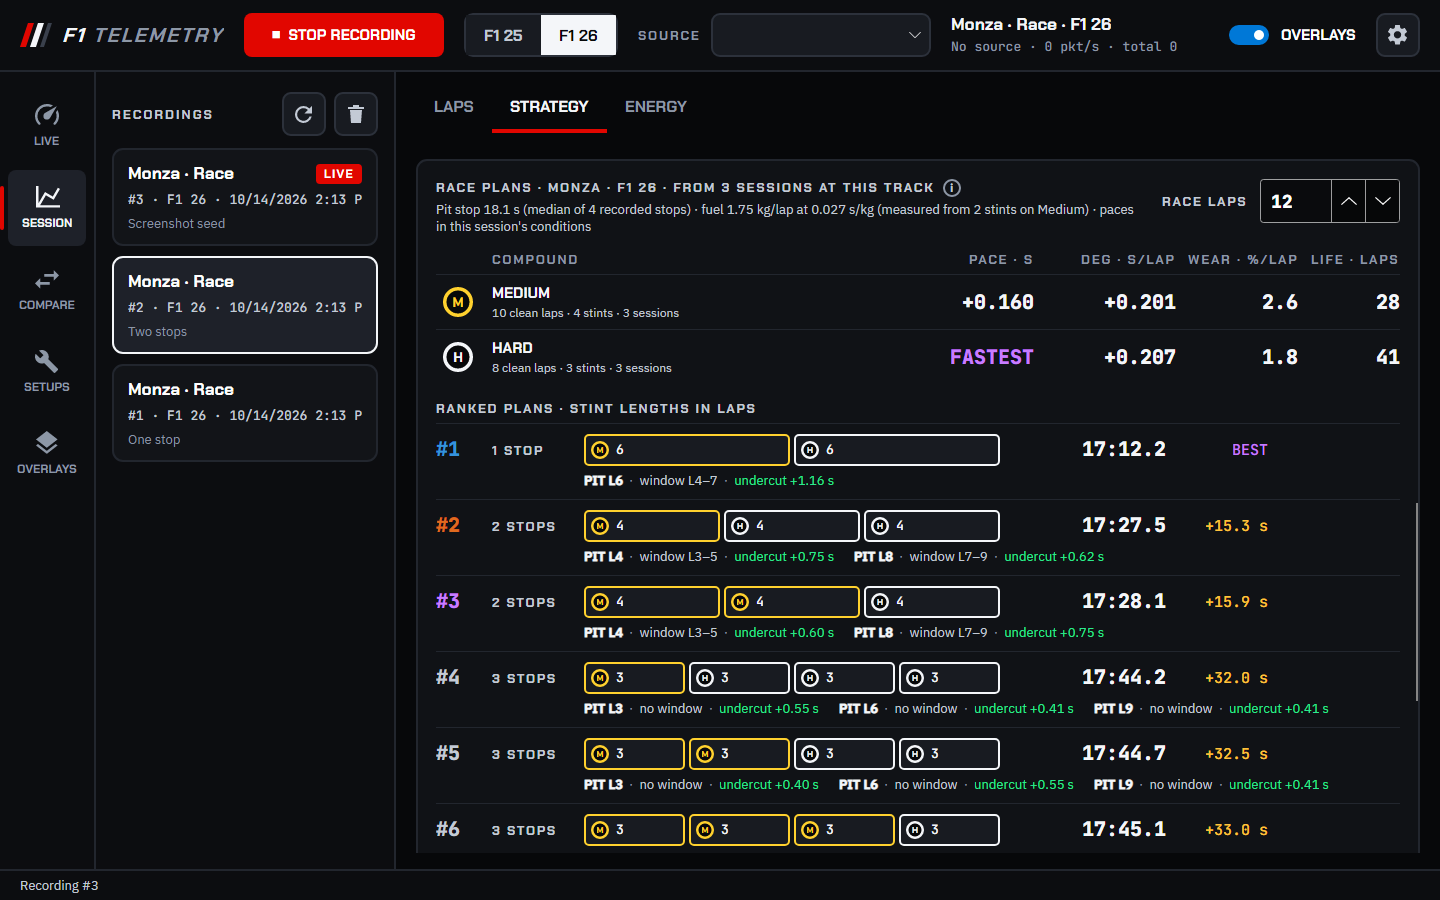
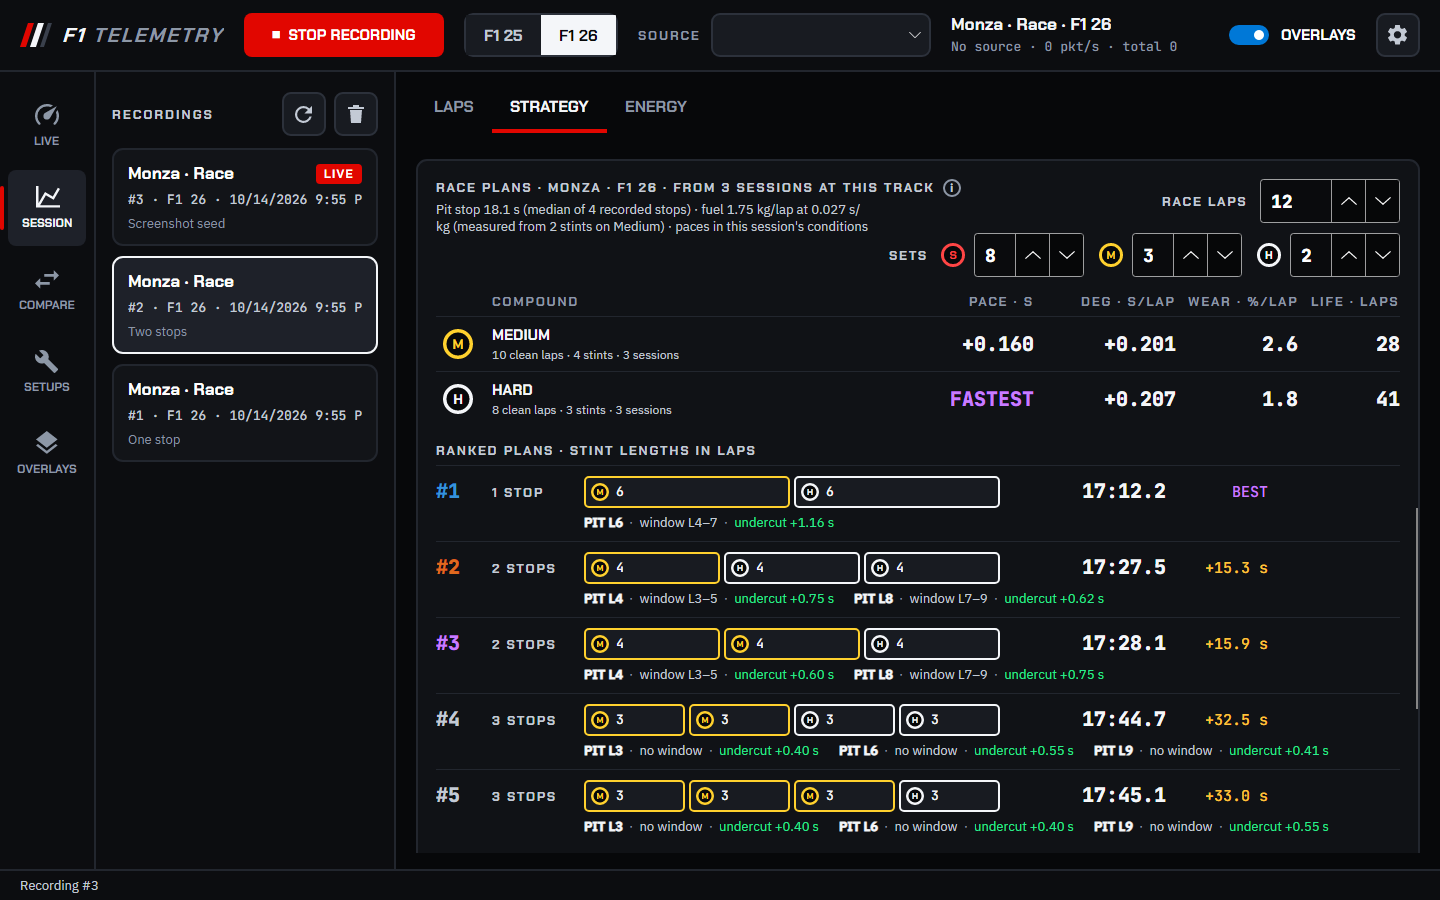
Race plans respect the tyre sets available; version 0.5.1
A plan never runs a compound more often than the race has new sets of it. SETS next to the race distance defaults to the F1 weekend allocation (8 soft, 3 medium, 2 hard) and is saved in the settings.

diff --git a/src/F1Telemetry.Core/Analytics/StrategyPlanner.cs b/src/F1Telemetry.Core/Analytics/StrategyPlanner.cs
@@ -54,6 +54,14 @@ public sealed record PlannerOptions
 
     /// <summary>Compounds with fewer clean laps than this are left out of the plans.</summary>
     public int MinCompoundLaps { get; init; } = 3;
+
+    /// <summary>
+    /// Sets of each compound the race can use (a plan runs each set once); a compound not listed has no limit.
+    /// Defaults to the F1 weekend allocation: 8 soft, 3 medium, 2 hard.
+    /// </summary>
+    public IReadOnlyDictionary<string, int> MaxSets { get; init; } = DefaultSets;
+
+    public static IReadOnlyDictionary<string, int> DefaultSets { get; } = new Dictionary<string, int> { ["Soft"] = 8, ["Medium"] = 3, ["Hard"] = 2 };
 }
 
 /// <summary>
@@ -68,7 +76,7 @@ public static class StrategyPlanner
     public static StrategyPlans Plan(CompoundLibrary library, int raceLaps, PlannerOptions? options = null)
     {
         options ??= new PlannerOptions();
-        var dry = library.Compounds.Where(c => c.IsDry && c.Laps >= options.MinCompoundLaps).ToList();
+        var dry = library.Compounds.Where(c => c.IsDry && c.Laps >= options.MinCompoundLaps && SetsOf(c.Compound, options) > 0).ToList();
         if (raceLaps < 2 * options.MinStintLaps)
         {
             return new StrategyPlans(raceLaps, [], dry, $"A race needs at least {2 * options.MinStintLaps} laps for a stop.");
@@ -78,7 +86,7 @@ public static class StrategyPlanner
         {
             var have = dry.Count == 0 ? "no dry compound" : $"only the {dry[0].Compound}";
             return new StrategyPlans(raceLaps, [], dry,
-                $"A dry race must use two compounds, and the recordings here have {have} with {options.MinCompoundLaps}+ clean laps. Run another compound at this track (a practice session will do).");
+                $"A dry race must use two compounds, and there is {have} with {options.MinCompoundLaps}+ clean laps recorded here and a set available. Run another compound at this track (a practice session will do), or check the sets.");
         }
 
         // The tank burns down from what the race needs to empty: the mean load over each lap.
@@ -88,7 +96,7 @@ public static class StrategyPlanner
         {
             foreach (var set in Multisets(dry.Count, stops + 1))
             {
-                if (set.Distinct().Count() < 2)
+                if (set.Distinct().Count() < 2 || set.GroupBy(i => i).Any(g => g.Count() > SetsOf(dry[g.Key].Compound, options)))
                 {
                     continue;
                 }
@@ -103,7 +111,8 @@ public static class StrategyPlanner
 
         if (candidates.Count == 0)
         {
-            return new StrategyPlans(raceLaps, [], dry, $"No plan with up to {options.MaxStops} stops keeps every set within its tyre life over {raceLaps} laps.");
+            return new StrategyPlans(raceLaps, [], dry,
+                $"No plan with up to {options.MaxStops} stops keeps every set within its tyre life over {raceLaps} laps with the sets available ({string.Join(", ", dry.Select(c => $"{SetsOf(c.Compound, options)} {c.Compound.ToLowerInvariant()}"))}).");
         }
 
         candidates.Sort((a, b) => a.RaceSeconds.CompareTo(b.RaceSeconds));
@@ -119,6 +128,8 @@ public static class StrategyPlanner
 
         return new StrategyPlans(raceLaps, shown.Select(p => p with { GapSeconds = p.RaceSeconds - best }).ToList(), dry, "");
     }
+
+    private static int SetsOf(string compound, PlannerOptions options) => options.MaxSets.TryGetValue(compound, out var sets) ? sets : int.MaxValue;
 
     /// <summary>Cost of one stint: its laps on the compound's model, fuel aside.</summary>
     public static double StintSeconds(CompoundModel compound, int laps) =>

diff --git a/src/F1Telemetry.App/ViewModels/RacePlansViewModel.cs b/src/F1Telemetry.App/ViewModels/RacePlansViewModel.cs
@@ -68,7 +68,7 @@ public sealed record PlanRowViewModel(int Rank, RacePlan Plan, IReadOnlyList<Pla
 /// The strategy optimiser on the strategy tab: the compound library of the session's track (every recording there in
 /// the same game format) and the 1-, 2- and 3-stop plans it gives for a race distance.
 /// </summary>
-public sealed partial class RacePlansViewModel(TelemetryRuntime runtime) : ObservableObject
+public sealed partial class RacePlansViewModel(TelemetryRuntime runtime, SettingsService settings) : ObservableObject
 {
     /// <summary>A live session's library is rebuilt at most this often (each build reads every recording at the track).</summary>
     private static readonly TimeSpan LiveRebuild = TimeSpan.FromMinutes(1);
@@ -94,6 +94,27 @@ public sealed partial class RacePlansViewModel(TelemetryRuntime runtime) : Obser
     public ObservableCollection<PlanRowViewModel> Plans { get; } = [];
 
     partial void OnRaceLapsChanged(int value) => Replan();
+
+    /// <summary>New sets of each dry compound the plans can use (a plan runs each set once); saved in the settings.</summary>
+    [ObservableProperty] public partial int SoftSets { get; set; } = settings.Current.RaceSoftSets;
+
+    [ObservableProperty] public partial int MediumSets { get; set; } = settings.Current.RaceMediumSets;
+    [ObservableProperty] public partial int HardSets { get; set; } = settings.Current.RaceHardSets;
+
+    partial void OnSoftSetsChanged(int value) => SaveSets();
+
+    partial void OnMediumSetsChanged(int value) => SaveSets();
+
+    partial void OnHardSetsChanged(int value) => SaveSets();
+
+    private void SaveSets()
+    {
+        settings.Current.RaceSoftSets = SoftSets;
+        settings.Current.RaceMediumSets = MediumSets;
+        settings.Current.RaceHardSets = HardSets;
+        settings.Save();
+        Replan();
+    }
 
     public void Clear()
     {
@@ -168,7 +189,10 @@ public sealed partial class RacePlansViewModel(TelemetryRuntime runtime) : Obser
             return;
         }
 
-        var result = StrategyPlanner.Plan(library, RaceLaps);
+        var result = StrategyPlanner.Plan(library, RaceLaps, new PlannerOptions
+        {
+            MaxSets = new Dictionary<string, int> { ["Soft"] = SoftSets, ["Medium"] = MediumSets, ["Hard"] = HardSets },
+        });
         Problem = library.Compounds.Count == 0 ? "No clean laps recorded at this track yet." : result.Problem;
         Plans.Clear();
         for (var i = 0; i < result.Plans.Count; i++)

diff --git a/tests/F1Telemetry.Tests/StrategyPlannerTests.cs b/tests/F1Telemetry.Tests/StrategyPlannerTests.cs
@@ -130,6 +130,27 @@ public sealed class StrategyPlannerTests
     }
 
     [Fact]
+    public void Plans_never_use_more_sets_of_a_compound_than_the_race_has()
+    {
+        // Hard is so much better that, unlimited, the best plans would run it three or four times.
+        var library = Library(22, Model("Medium", 80.6, 0.20), Model("Hard", 80.0, 0.02, life: 15));
+        Assert.Contains(StrategyPlanner.Plan(library, 50, new PlannerOptions { MaxSets = new Dictionary<string, int>() }).Plans,
+            p => p.Stints.Count(s => s.Compound == "Hard") > 2);
+
+        var plans = StrategyPlanner.Plan(library, 50); // the default allocation: 2 hard, 3 medium
+        Assert.NotEmpty(plans.Plans);
+        Assert.All(plans.Plans, p =>
+        {
+            Assert.InRange(p.Stints.Count(s => s.Compound == "Hard"), 0, 2);
+            Assert.InRange(p.Stints.Count(s => s.Compound == "Medium"), 0, 3);
+        });
+
+        var noHards = StrategyPlanner.Plan(library, 50, new PlannerOptions { MaxSets = new Dictionary<string, int> { ["Hard"] = 0, ["Medium"] = 3 } });
+        Assert.Empty(noHards.Plans);
+        Assert.Contains("set available", noHards.Problem);
+    }
+
+    [Fact]
     public void Tyre_life_rules_out_plans_that_overrun_a_set()
     {
         // Each set lasts 15 laps: 40 laps need at least two stops.

diff --git a/src/F1Telemetry.App/ViewModels/SessionViewModel.cs b/src/F1Telemetry.App/ViewModels/SessionViewModel.cs
@@ -91,7 +91,7 @@ public sealed record StintViewModel(StintAnalysis Stint, IReadOnlyList<LapBar> B
 }
 
 /// <summary>Laps list, race-strategy post-mortem and position history for one recording (live or stored).</summary>
-public sealed partial class SessionViewModel(TelemetryRuntime runtime) : ObservableObject
+public sealed partial class SessionViewModel(TelemetryRuntime runtime, SettingsService settings) : ObservableObject
 {
     private CancellationTokenSource? _loadCts;
 
@@ -108,7 +108,7 @@ public sealed partial class SessionViewModel(TelemetryRuntime runtime) : Observa
     public ObservableCollection<PitStopRowViewModel> PitStops { get; } = [];
 
     /// <summary>The strategy optimiser: compound library of the track and race plans.</summary>
-    public RacePlansViewModel Plans { get; } = new(runtime);
+    public RacePlansViewModel Plans { get; } = new(runtime, settings);
 
     [ObservableProperty] public partial bool HasPitStops { get; set; }
 

diff --git a/src/F1Telemetry.App/Services/SettingsService.cs b/src/F1Telemetry.App/Services/SettingsService.cs
@@ -107,6 +107,12 @@ public sealed class AppSettings
 
     /// <summary>Installed builds look for a new release on GitHub at startup and download it in the background.</summary>
     public bool CheckForUpdates { get; set; } = true;
+
+    /// <summary>New sets of each dry compound race plans can use: the F1 weekend allocation unless changed.</summary>
+    public int RaceSoftSets { get; set; } = 8;
+
+    public int RaceMediumSets { get; set; } = 3;
+    public int RaceHardSets { get; set; } = 2;
     public Dictionary<OverlayKind, OverlaySettings> Overlays { get; set; } = Enum.GetValues<OverlayKind>().ToDictionary(k => k, _ => new OverlaySettings());
 
     public OverlaySettings Overlay(OverlayKind kind)

diff --git a/README.md b/README.md
@@ -235,7 +235,7 @@ The fits need a few clean laps per stint: with only two or three, wear rates are
 - **tyre life** is the laps until the most worn tyre reaches the wear limit (Settings), from its recorded wear per lap;
 - the **pit-stop loss** is the median of the recorded races' stops at the track (22 s until there is one), and the fuel burn the median of the stints'.
 
-`StrategyPlanner` then builds every 1-, 2- and 3-stop plan for the race distance (the longest race recorded there, editable) that runs two different dry compounds and keeps each set within its life and at least 3 laps long. For each mix of compounds, dynamic programming over the laps picks the stint lengths with the lowest race time. The list ranks them by predicted race time, with the gap to the best, and the fastest plan of each stop count always shows. For each stop it gives:
+`StrategyPlanner` then builds every 1-, 2- and 3-stop plan for the race distance (the longest race recorded there, editable) that runs two different dry compounds and keeps each set within its life and at least 3 laps long. A plan never runs a compound more often than the race has new sets of it: **SETS** next to the race distance, the F1 weekend allocation (8 soft, 3 medium, 2 hard) until you lower it to what is left after practice and qualifying (saved in the settings). For each mix of compounds, dynamic programming over the laps picks the stint lengths with the lowest race time. The list ranks them by predicted race time, with the gap to the best, and the fastest plan of each stop count always shows. For each stop it gives:
 
 - the **pit window**: the in-laps that cost at most 1 s more than the planned one, the other stops staying put;
 - the **undercut**: what pitting one lap before a car on the same plan gains, its lap on the old set against your second lap on the new one. Negative means staying out (the overcut) gains. The out-lap's cold tyres are inside the pit-stop loss, so this is the tyre delta alone.
@@ -332,6 +332,6 @@ Switch on **PREVIEW OVERLAYS** at the top of the **OVERLAYS** page (in the rail)
 
 - Setup autopilot: dial a library setup into the game's setup screen with simulated key presses, checked against the live setup packet.
 - Driver names on the radar.
-- Race plans: safety-car windows, a tyre "cliff" beyond the straight-line wear, and starting on used qualifying tyres.
+- Race plans: read the sets left from the game's tyre-sets packet (12) instead of typing them, safety-car windows, a tyre "cliff" beyond the straight-line wear, and starting on used qualifying tyres.
 - Signing the Windows installer and notarising the macOS package; delta updates (`vpk download` of the previous release before packing).
 - Checking click-through overlays on real macOS and X11 machines (only Windows has been run so far).
